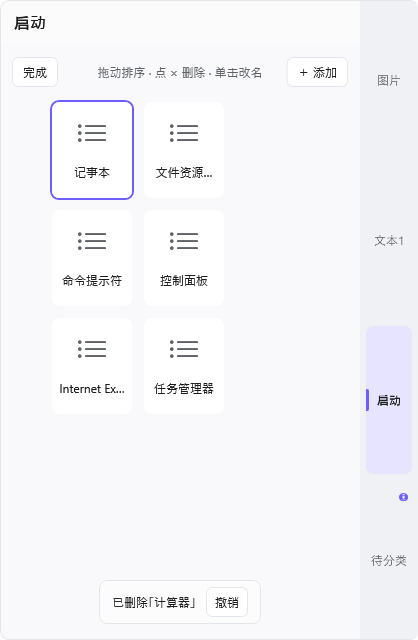
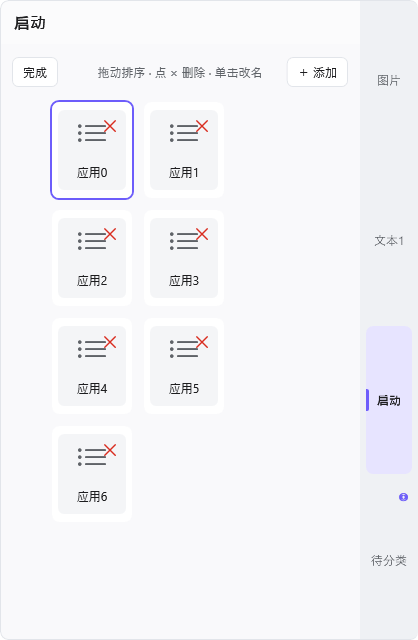
docs: 契约 #30 修订四点同步＋CHANGELOG 未发布区＋README 右键菜单与 × 描述＋浅/深截图（P5，Issue #176）
- design-contracts.md：#30 断言（× 几何与显隐机制/右键菜单四项/串行化协议乐观上屏＋门跨应用与回滚/键盘层级补菜单 Esc 最前/动效瓦片几何同源 token/拖动跟随与命中缓存锚定布局槽）、由来（报障与裁决）、锁定（新增守护测试族）、关联（Issue #176）；#21 关联补注（瓦片重排乐观上屏照此型收敛）
- CHANGELOG 未发布区三条：B1 根因与修复、拖动三根因与量化前后对比（P50 0.448→0.092ms/P95 2.485→0.140ms、发布 86.5→~20-26ms 先于保存完成、通知 201→1、容器零重建、GC 0）、视觉一致性收敛
- README：快捷启动段补右键菜单与编辑模式 ×/跟手描述；编辑模式截图替换（× 可见的 after 版）＋深色变体＋右键菜单浅/深截图
- 证据截图测试扩为浅/深×（查看/编辑/菜单）六张（菜单为独立 Popup 视觉树单独实拍）

diff --git a/README.md b/README.md
@@ -42,7 +42,7 @@ Release 页面中的 `Source code (zip)` / `Source code (tar.gz)` 是 GitHub 自
 - **批量复制**：一次复制多张图片保留来源顺序，损坏文件不影响同批其他可用图片。
 - **指定位置放入**：可以从资源管理器、浏览器、微信等软件把常见静态图片或非空文字直接拖到某个分类。
 - **整理内容**：支持两个可改名板卡分类（图片、待分类）、一个按天复盘标签和一个快捷启动标签，置顶、批量置顶、直接多选、批量移动、批量删除和分类内排序照旧。卡片指针手势按左右对半分区：双击左半就地编辑文字卡，光标落在双击处（无选区，直接从该处输入），单击右半选中、再点取消（原地快速连点每击都生效）；悬停卡片右上角可对这一张置顶、多选、删除或添加备注（选中的卡片走顶部批量按钮）。内容超长被截断的文字卡悬停时右上按钮组会出现「添加备注」按钮，写一句短摘要后备注会常显在卡片顶部（最多两行），一眼就能认出这条长卡是什么；备注不参与搜索、复制和拖出，不影响卡片内容本身。截断的文字卡还可以一键「AI 整理」（见下一条），把带口语跳跃、重复和识别错误的转写稿整理成干净文字。
-- **快捷启动**：第四个标签是应用启动面板——把 `.exe` 或快捷方式（`.lnk`）直接拖进来，或点右上角「＋ 添加」从「应用文件…」多选本地文件、从「已安装应用…」勾选系统里已装的应用（含微软商店等打包应用，支持搜索过滤与多选），即可变成一枚带真实应用图标的瓦片（最多 200 个；重复添加会自动去重并定位到已有瓦片）。「＋ 添加」菜单和文件/应用选择对话框打开期间面板不会因鼠标移开而自动收起，全部关闭后鼠标在面板内则保持展开、在外则恢复自动收起节奏。单击瓦片立即启动对应应用，随后面板自动收起，鼠标还停在面板上也不会立刻弹开（移出再回来才恢复悬停展开）；启动失败时瓦片转为灰态并提示原因（目标不存在、拒绝访问、需要管理员、应用未注册等）。点「编辑」（或按 `F2`）进入编辑模式：单击瓦片就地改名，右上 × 删除（4 秒内可点「撤销」找回），按住拖动调整顺序，方向键在瓦片间移动，`Delete` 删除当前瓦片，`Esc` 退出编辑。启动项独立保存在 `launchers.json`，与板卡内容互不影响；「启动」标签可以照常改名和调序。
+- **快捷启动**：第四个标签是应用启动面板——把 `.exe` 或快捷方式（`.lnk`）直接拖进来，或点右上角「＋ 添加」从「应用文件…」多选本地文件、从「已安装应用…」勾选系统里已装的应用（含微软商店等打包应用，支持搜索过滤与多选），即可变成一枚带真实应用图标的瓦片（最多 200 个；重复添加会自动去重并定位到已有瓦片）。「＋ 添加」菜单和文件/应用选择对话框打开期间面板不会因鼠标移开而自动收起，全部关闭后鼠标在面板内则保持展开、在外则恢复自动收起节奏。单击瓦片立即启动对应应用，随后面板自动收起，鼠标还停在面板上也不会立刻弹开（移出再回来才恢复悬停展开）；启动失败时瓦片转为灰态并提示原因（目标不存在、拒绝访问、需要管理员、应用未注册等）。右键瓦片可打开上下文菜单：删除（同样有 4 秒撤销）、上移/下移（到端点自动置灰）、重命名——不开编辑模式也能完成整理。点「编辑」（或按 `F2`）进入编辑模式：每个瓦片右上角显示 × 删除按钮（点 × 删除，4 秒内可点「撤销」找回），单击瓦片就地改名，按住拖动调整顺序（跟手无迟滞），方向键在瓦片间移动，`Delete` 删除当前瓦片，`Esc` 退出编辑。启动项独立保存在 `launchers.json`，与板卡内容互不影响；「启动」标签可以照常改名和调序。
 - **自动清理**：默认开启；每张非置顶卡片入库满所选保留时长即自动删除——保留时长在设置中可选 2/4/6/8/10/12/24 小时七档（默认 24 小时；改短后已超龄的卡片会在下次检查时清理，升级后首次检查即清理已超龄的存量卡片），置顶卡片与「复盘」内容不受影响。清理走正常删除路径，可 `Ctrl + Z` 整批撤销（仅本次运行内）；每小时检查一次，休眠或重启也不会跳过到期清理（最长延迟约 1 小时）。可在设置中选择保留时长或关闭。
 - **再拖出去**：图片和文字使用 Windows 通用拖放格式，可拖到支持这些格式的软件；纯图片多选可以按原顺序一起拖出。
 - **复制出去**：右键卡片右半把它复制到剪贴板，再粘贴到游戏聊天窗等无法拖入的目标；面板持有键盘焦点且有选择时 `Ctrl + C` 复制选中项——多条文字按板内顺序合并为一段文本，纯图片多选按原顺序给出文件组，文字+图片混合则两者并存。复制不删除卡片、不进撤销栈，应用自身的复制也不会被自动收集重复入库。
@@ -133,7 +133,11 @@ Release 页面中的 `Source code (zip)` / `Source code (tar.gz)` 是 GitHub 自
 
 <img src="docs/images/quicklaunch-edit-mode.png" width="440" alt="编辑模式：瓦片常驻浅底、右上 × 删除钮与「拖动排序 · 点 × 删除 · 单击改名」提示，底部出现已删除提示条">
 
-*编辑模式：单击改名、× 删除（4 秒可撤销）、拖动排序*
+*编辑模式：每个瓦片右上角 × 删除（4 秒可撤销）、单击改名、拖动排序（跟手无迟滞）；深色主题见 [quicklaunch-edit-mode-dark.png](docs/images/quicklaunch-edit-mode-dark.png)*
+
+<img src="docs/images/quicklaunch-contextmenu-light.png" alt="查看态右键菜单：删除、上移、下移、重命名四项，删除为红色危险色">
+
+*右键任意瓦片：删除（4 秒可撤销）／上移／下移（端点自动置灰）／重命名——不开编辑模式也能整理；深色主题见 [quicklaunch-contextmenu-dark.png](docs/images/quicklaunch-contextmenu-dark.png)*
 
 <img src="docs/images/quicklaunch-picker.png" width="360" alt="已安装应用选择器：搜索框 + 复选应用列表 + 底部取消与添加按钮，两条已勾选">
 

diff --git a/CHANGELOG.md b/CHANGELOG.md
@@ -4,6 +4,10 @@
 
 ## 未发布
 
+- 修复「快捷启动：编辑模式看不到删除按钮」并新增瓦片右键菜单（设计契约 #30 修订，记录 Issue #176）：编辑模式右上 × 删除钮此前**从未显示过**——按钮基态 `Collapsed` 且未挂显隐管理，代码只切换淡入淡出激活位，折叠元素永不渲染、不可点击（契约要求的「常驻」从未生效；既有测试用合成事件点击折叠元素而漏测，属「合成可达、实机不可达」缺陷族）。现 × 并入全库统一的显隐机制（激活即显示、83ms 淡入），命中区扩大到 24×24 且完全落在瓦片内（原先 20×20 负边距悬出瓦片、低于无障碍最小目标），图标由文字字形改为矢量路径与全库一致。同时新增查看态/编辑态瓦片**右键菜单**（删除/上移/下移/重命名）：删除与 × 走同一条 4 秒撤销事务；上移/下移给拖动重排提供了单指针替代入口（无障碍要求，端点自动禁用）；重命名进入既有编辑模式与改名会话；菜单打开期间面板不自动收起，`Esc` 只关菜单；右键不会误启动应用。
+- 修复「快捷启动：拖动瓦片很卡、粘滞感极强」三处根因（Issue #176）：①**跟随滞后**——拖动时每次鼠标移动都新建一个 167ms「追赶动画」，瓦片永远在追一个已过时的目标位置，匀速移动下恒定落后于指针＝粘滞；现跟随改为直接赋值（指针在哪瓦片在哪），167ms 动画只保留给松手归位与邻位让位。②**每步全量扫描**——每次鼠标移动都对全部瓦片做视觉树查找与坐标换算（上限 200 个）；现起拖时一次性缓存容器与静止矩形，拖动期间纯几何判定。③**落点迟滞与重建**——松手后要等写盘往返完成才更新界面，且任何变更都整表销毁重建全部瓦片容器；现改为「乐观上屏＋最小操作」：重排瞬间生效（单条移动通知、容器复用），保存转入后台，保存失败才按逆操作回滚并提示（与标签顺序调整同一先例语义）。实测对比（200 个瓦片、本机可复跑基准）：拖动每步处理耗时 P50 0.448ms→0.092ms、P95 2.485ms→0.140ms（动效开启档）；松手到界面重排生效 86.5ms→约 20-26ms 且不再等写盘（保存完成约 55ms 在其后）；集合通知 201 条（整表重建）→1 条（单移动）；容器零重建、垃圾回收从 1-2 次降到 0。
+- 视觉一致性收敛（Issue #176）：瓦片布局常量（84×100、间距 8、列距 92）收进设计 token 单一来源，代码与界面同源引用（此前三处硬编码易漂移）；搜索条两个 × 图标尺寸统一；备注行图标描边与全库规范对齐（1.3→1.5）；清理无人引用的壳圆角幽灵 token。内容卡片拖拽悬停路径体检结论「不动」（实测每事件约 0.09ms，虚拟化已使成本与条目总数解耦）。
+
 ## 1.47.3
 
 - 修复「快捷启动：启动应用后把手悬停展开迟滞」（设计契约 #30 再展开抑制窗二次修订，记录 Issue #173，#170 后续）：从启动器成功启动程序、面板收起后，把鼠标移到「待分类」把手上悬停并不立即展开——须等指针偶然晃出收起前的面板足迹再回来才能展开，体感「得加载一会儿、很卡顿」。根因是 1.47.2 的再展开抑制窗把离场观测区绑成了收起前的整个展开面板矩形，而收起把手严格内含其中：用户从瓦片位置移到把手的旅程全程都在旧足迹内，轮询观测永远看不到「离场」，抑制被无限期保持。现观测区收敛为本次收起放置的把手矩形（悬停意图与误弹回风险都只可能发生在把手上），且只在提交收起时指针就在把手内才布防、否则直接不抑制；另修复收起动画交接窗口内移入把手会丢失进入事件的问题（交接完成后按指针实际位置补一次悬停评估）。防误弹回语义不变：指针一直停在把手上期间不回弹，移出把手后回来即恢复悬停展开。
